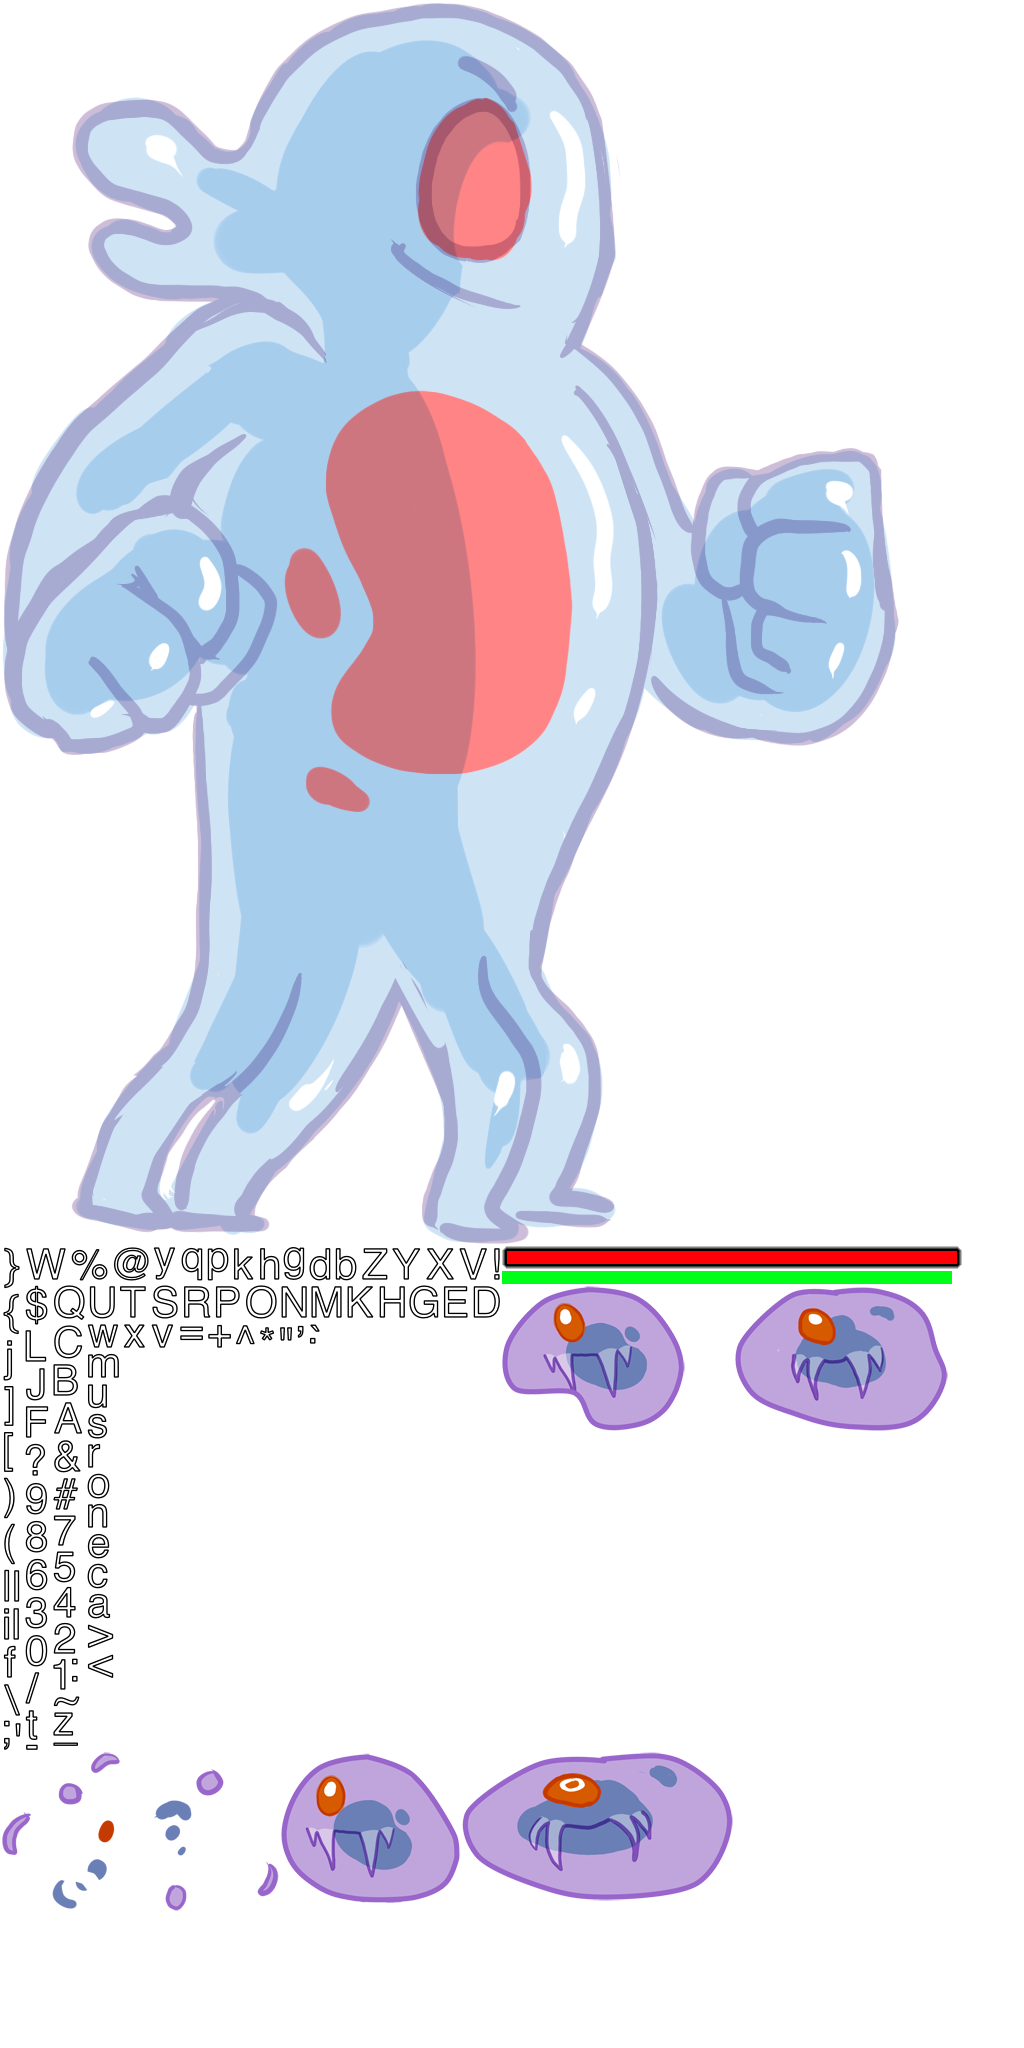
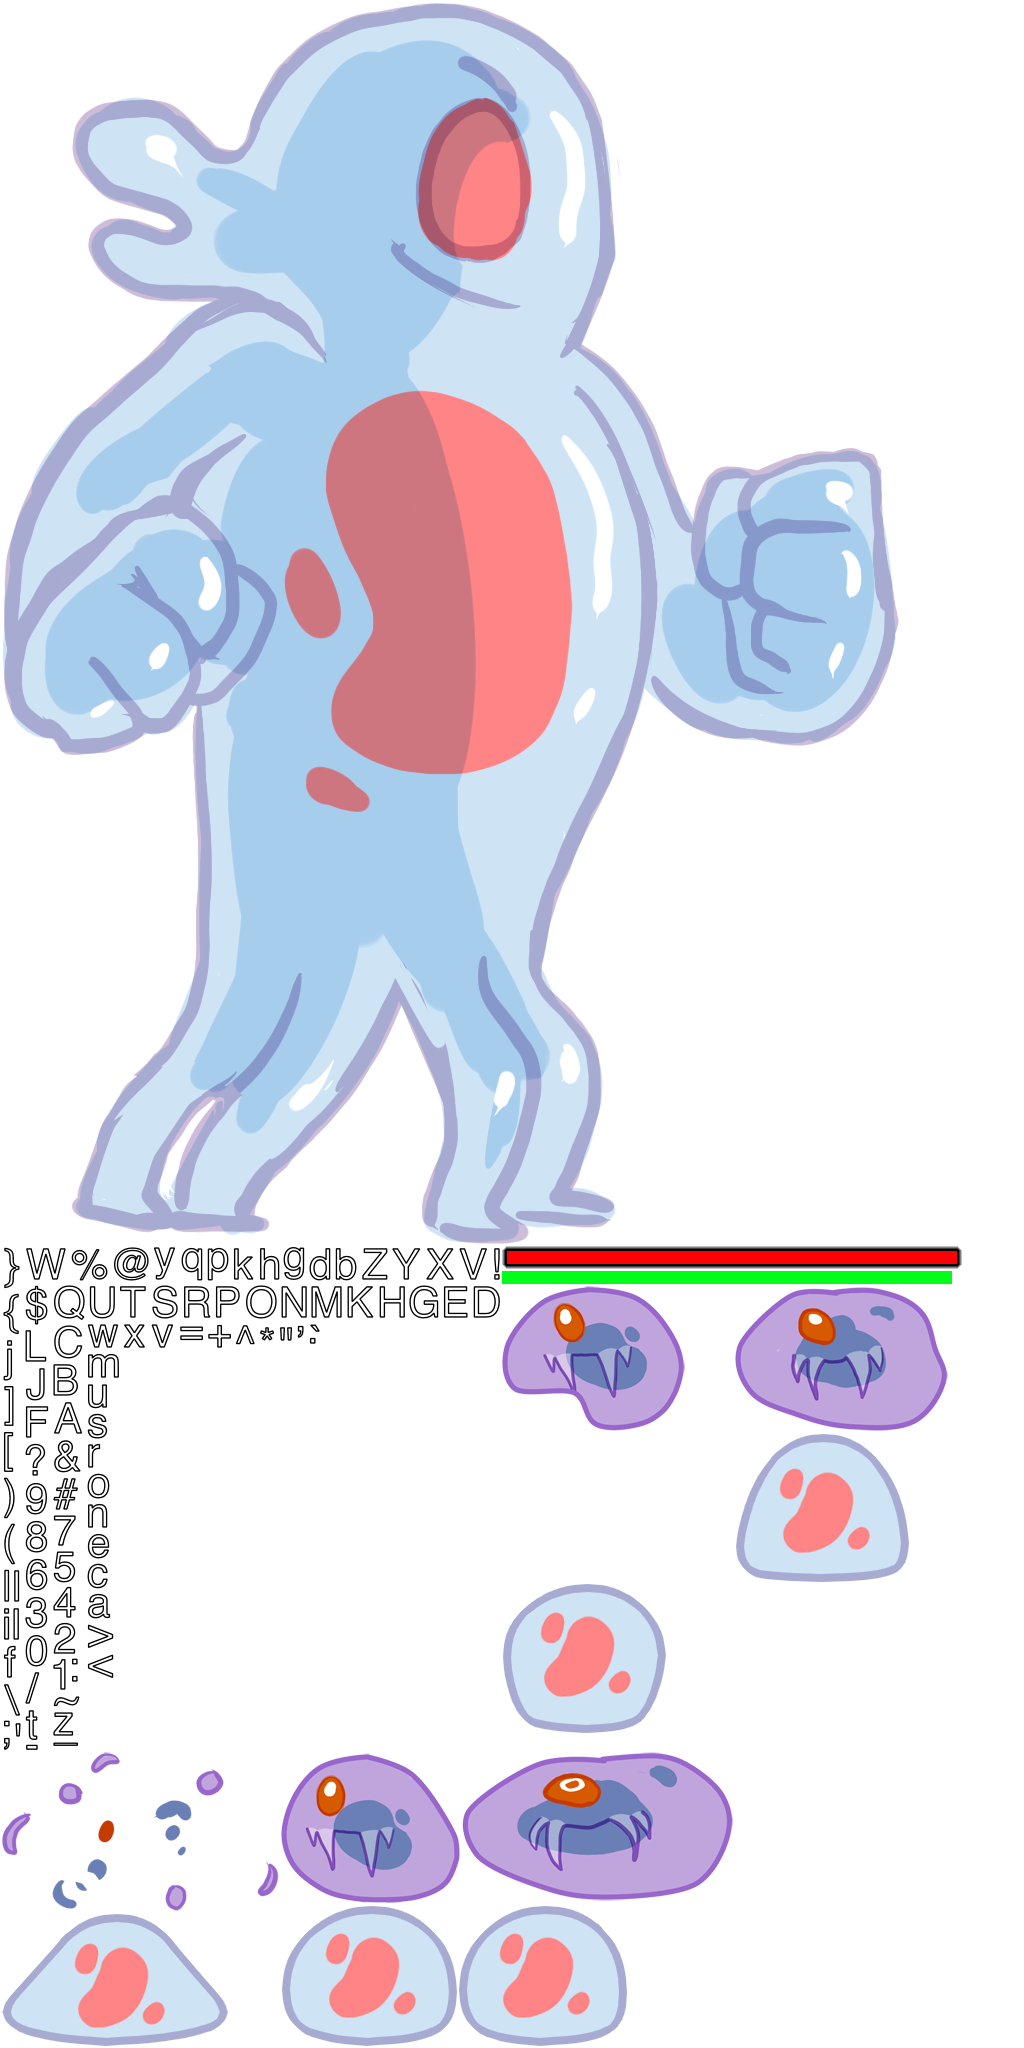
Basic swipes spawn player cell bubbles that travel in the given direction.

diff --git a/immunity/Assets/Scripts/Combat/CombatPage.cs b/immunity/Assets/Scripts/Combat/CombatPage.cs
@@ -16,6 +16,9 @@ public class CombatPage : ImmunityPage, FMultiTouchableInterface {
 	private FContainer dyingBacteriaHolder_;
 	private List<BacteriaBubble> dyingBacterias_ = new List<BacteriaBubble>();
 	
+	private FContainer bubbleContainer_;
+	private List<PlayerBubble> bubbles_ = new List<PlayerBubble>(); 
+	
 	private FLabel scoreLabel_;
 	
 	private int frameCount_ = 0;
@@ -26,6 +29,8 @@ public class CombatPage : ImmunityPage, FMultiTouchableInterface {
 	private HealthBar player_healthbar;
 		
 	private Tween current_movement = null;
+	
+	Dictionary<int, FTouch> touch_starts = new Dictionary<int, FTouch>();
 	
 	public CombatPage()
 	{
@@ -43,13 +48,16 @@ public class CombatPage : ImmunityPage, FMultiTouchableInterface {
 		AddChild(levelFore_);
 		
 		player_healthbar = new HealthBar();
-		player_healthbar.x = Futile.screen.halfWidth - player_healthbar.width - 20.0f;
-		player_healthbar.y = Futile.screen.halfHeight - player_healthbar.height/2.0f - 20.0f;
+		player_healthbar.x = Futile.screen.halfWidth - player_healthbar.width - 50.0f;
+		player_healthbar.y = Futile.screen.halfHeight - player_healthbar.height/2.0f - 50.0f;
 		player_ = new PlayerCharacter(player_healthbar);
 		AddChild(player_);
 		
 		bacteriaContainer_ = new FContainer();
 		AddChild(bacteriaContainer_);
+		
+		bubbleContainer_ = new FContainer();
+		AddChild(bubbleContainer_);
 		
 		dyingBacteriaHolder_ = new FContainer();
 		AddChild(dyingBacteriaHolder_);
@@ -100,6 +108,16 @@ public class CombatPage : ImmunityPage, FMultiTouchableInterface {
 		bacteria.play("punchyswarm_idle");
 		bacterias_.Add(bacteria);
 		totalBacterialCreated_++;
+	}
+	
+	public void CreateBubble(Vector2 direction)
+	{
+		PlayerBubble bubble = new PlayerBubble(direction);
+		bubbleContainer_.AddChild(bubble);
+		bubble.x = player_.x;
+		bubble.y = player_.y;
+		bubble.play("player_cell_swim");
+		bubbles_.Add(bubble);
 	}
 	
 	protected void HandleUpdate()
@@ -173,6 +191,40 @@ public class CombatPage : ImmunityPage, FMultiTouchableInterface {
 	{
 		foreach(FTouch touch in touches)
 		{
+			
+			if(touch.phase == TouchPhase.Began)
+			{
+				touch_starts.Add(touch.tapCount, touch);	
+			}
+			else if(touch.phase == TouchPhase.Ended)
+			{
+				FTouch touch_start = touch_starts[touch.tapCount];
+				
+				Vector2 swipe_vector = touch.position - touch_start.position;
+				
+				// normalize the swipe vector
+				float swipe_magnitude = Mathf.Sqrt(swipe_vector.x*swipe_vector.x + swipe_vector.y*swipe_vector.y);
+				
+				// TODO: Change this to a reasonable threshold
+				if(swipe_magnitude <= 0.0f)
+				{
+					// This is a tap
+					Debug.Log("Detected a tap");
+				}
+				else
+				{
+					Debug.Log("Detected a swipe");
+					swipe_vector.x /= swipe_magnitude;
+					swipe_vector.y /=swipe_magnitude;
+					
+					Debug.Log("Swipe vector: <" + swipe_vector.x + ", " + swipe_vector.y + "> Magnitude: " + swipe_magnitude);
+					
+					CreateBubble(swipe_vector);
+				}
+				
+				touch_starts.Remove(touch.tapCount);
+			}
+			
 			if(touch.phase == TouchPhase.Began)
 			{
 				bool touchedEmptySpace = true;

diff --git a/immunity/Assets/Scripts/Combat/PlayerBubble.cs b/immunity/Assets/Scripts/Combat/PlayerBubble.cs
@@ -1,0 +1,35 @@
+using UnityEngine;
+using System;
+using System.Collections;
+
+public class PlayerBubble : FAnimatedSprite {
+	
+	float speed_ = .01f;
+	
+	Vector2 direction_;
+	
+	// TODO: Add pop animation
+	public PlayerBubble(Vector2 direction) : base ("player_cell_swim")
+	{
+		ListenForUpdate(HandleUpdate);
+		
+		direction_ = direction;
+		
+		// turn sprite to the specified direction
+		rotation = Mathf.Atan2(direction.x, direction.y);
+		
+		// set up the swim animation
+		int[] swim_frames = {1, 2, 3, 4, 5, 6, 7, 8};
+		FAnimation swim_animation = new FAnimation("player_cell_swim", swim_frames, 250, true);
+		base.addAnimation(swim_animation);
+	}
+	
+	public void HandleUpdate()
+	{
+		base.Update(); // this is required for the animation
+		
+		// update the sprite position based on the direction and the speed
+		x += direction_.x*speed_*Futile.screen.width;
+		y += direction_.y*speed_*Futile.screen.height;
+	}
+}
